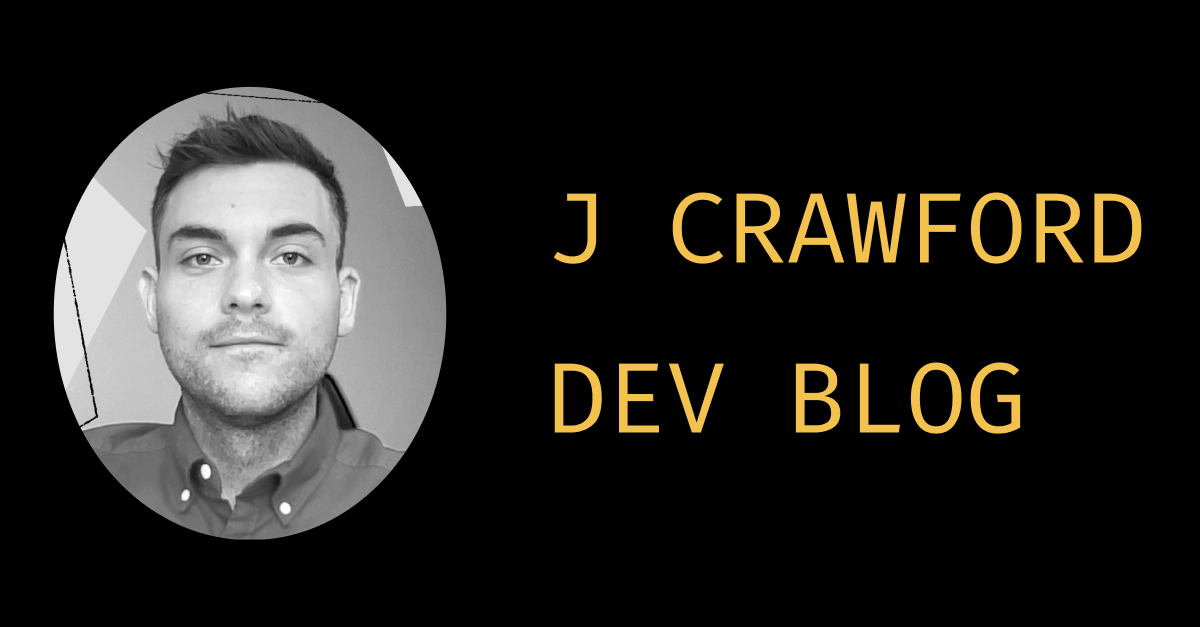
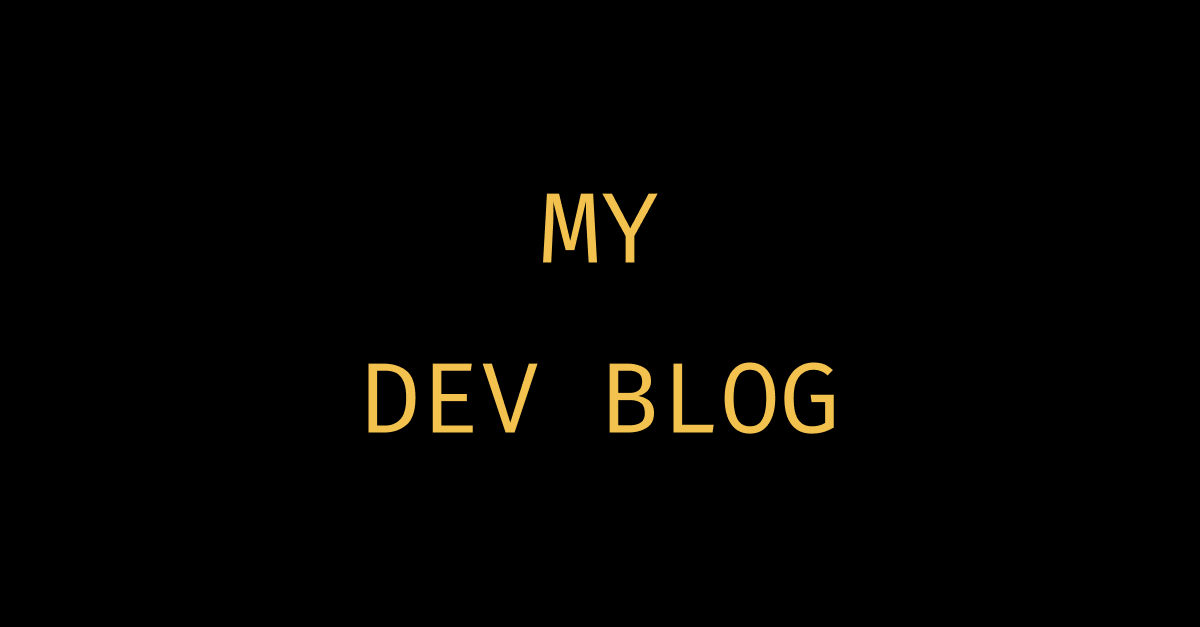
templatize repo

Changed region(s): [[0.0308, 0.1212, 0.8633, 0.8788], [0.4317, 0.303, 0.9558, 0.4242]]

diff --git a/index.html b/index.html
@@ -6,36 +6,40 @@
     <meta name="viewport" content="width=device-width, initial-scale=1" />
 
     <!-- HTML Meta Tags -->
-    <title>J CRAWFORD - BLOG</title>
+    <title>MY - BLOG</title>
     <meta name="description" content="My own dev blog for various topics." />
 
     <!-- Open Graph Meta Tags -->
-    <meta property="og:url" content="https://blog.joncrawford.me/" />
+    <!-- 
+    <meta property="og:url" content="https://<domain.name>" />
     <meta property="og:type" content="website" />
-    <meta property="og:title" content="J CRAWFORD - BLOG" />
+    <meta property="og:title" content="MY - BLOG" />
     <meta
       property="og:description"
       content="My own dev blog for various topics."
     />
     <meta
       property="og:image"
-      content="https://blog.joncrawford.me/assets/static/og-preview.png"
+      content="https://<domain.name>/assets/static/og-preview.png"
     />
     <meta property="og:image:type" content="image/png" />
+    -->
 
     <!-- Twitter Meta Tags -->
+    <!--
     <meta name="twitter:card" content="summary_large_image" />
-    <meta property="twitter:domain" content="blog.joncrawford.me" />
-    <meta property="twitter:url" content="https://blog.joncrawford.me/" />
-    <meta name="twitter:title" content="J CRAWFORD - BLOG" />
+    <meta property="twitter:domain" content="<domain.name" />
+    <meta property="twitter:url" content="https://<domain.name>" />
+    <meta name="twitter:title" content="MY - BLOG" />
     <meta
       name="twitter:description"
       content="My own dev blog for various topics."
     />
     <meta
       name="twitter:image"
-      content="https://blog.joncrawford.me/assets/static/og-preview.png"
+      content="<domain.name>/assets/static/og-preview.png"
     />
+    -->
   </head>
   <body>
     <div id="root"></div>

diff --git a/src/components/Footer/Footer.tsx b/src/components/Footer/Footer.tsx
@@ -8,19 +8,25 @@ import {
   faLinkedinIn,
 } from "@fortawesome/free-brands-svg-icons";
 
+// replace with your own social media profile urls
+const mediumURL = "https://medium.com/";
+const githubURL = "https://github.com/";
+const twitterURL = "https://twitter.com/";
+const linkedinURL = "https://www.linkedin.com/in/";
+
 export const Footer = () => {
   return (
     <div className={css["footer"]}>
-      <a href="https://medium.com/@jonathantcrawford" target="_blank">
+      <a href={mediumURL} target="_blank">
         <FontAwesomeIcon icon={faMediumM} />
       </a>
-      <a href="https://github.com/jonathantcrawford" target="_blank">
+      <a href={githubURL} target="_blank">
         <FontAwesomeIcon icon={faGithub} />
       </a>
-      <a href="https://twitter.com/jon_t_craw" target="_blank">
+      <a href={twitterURL} target="_blank">
         <FontAwesomeIcon icon={faTwitter} />
       </a>
-      <a href="https://www.linkedin.com/in/jonathantcrawford/" target="_blank">
+      <a href={linkedinURL} target="_blank">
         <FontAwesomeIcon icon={faLinkedinIn} />
       </a>
     </div>

diff --git a/src/components/Header/Header.tsx b/src/components/Header/Header.tsx
@@ -2,12 +2,16 @@ import { NavLink } from "react-router-dom";
 
 import css from "./Header.module.scss";
 
+// replace with your own name
+const firstName = 'first';
+const lastName = 'last';
+
 export const Header = () => {
   return (
     <div className={css["header"]}>
       <NavLink to="/" className={css["title"]}>
-        <span className={css["title__first-name"]}>J</span>
-        <span className={css["title__last-name"]}>Crawford</span>
+        <span className={css["title__first-name"]}>{firstName}</span>
+        <span className={css["title__last-name"]}>{lastName}</span>
       </NavLink>
     </div>
   );

diff --git a/src/components/CodeSnippet/CodeSnippet.tsx b/src/components/CodeSnippet/CodeSnippet.tsx
@@ -3,10 +3,10 @@ import syntaxHighlighterTheme from "react-syntax-highlighter/dist/esm/styles/hlj
 
 import css from "./CodeSnippet.module.scss";
 
-export const CodeSnippet = ({ string }: any) => {
+export const CodeSnippet = ({ string, fileName }: any) => {
   return (
     <section className={css["code-snippet"]}>
-      <code className={css["file-name"]}>.fleek.json</code>
+      <code className={css["file-name"]}>{fileName}</code>
       <SyntaxHighlighter language="json" style={syntaxHighlighterTheme}>
         {string}
       </SyntaxHighlighter>

diff --git a/src/components/About/About.tsx b/src/components/About/About.tsx
@@ -4,10 +4,10 @@ export const About = () => {
   return (
     <div className={css["about"]}>
       <div>
-        I work at Lunchbox Inc. as a Software Engineer on the Innovation Team.
+        Enter a brief description about yourself.
       </div>
-      <div>I am interested in design systems, web3 and user experiences.</div>
-      <div>I am currently living in Austin, TX.</div>
+      <div>Include some of your interests and passions.</div>
+      <div>Maybe add something funny or charming.</div>
     </div>
   );
 };

diff --git a/README.md b/README.md
@@ -1,0 +1,28 @@
+# IPFS Blog Starter
+
+- Vite
+- MDX
+- Fleek
+- SCSS
+- Font Awesome Icons
+- Custom Fonts
+- Meta Tags
+- Animated Routing
+- Asset Directories
+## Setup
+- Clone this repo
+- install dependencies `yarn`
+- run `yarn dev`
+- Follow the steps in TODO.md
+
+## Assets
+There are two locations for assets.
+1. `public/assets/static`
+Place assets here when you need the asset url to be static.
+2. `src/assets/`
+Place assets here that are referenced in code. Vite generates new file names for each asset during every rebuild.
+When referencing these assets make sure to import them in the following way.
+`import Screenshot_1URL from "@/assets/images/how-to-host-a-site-on-ipfs/screenshot_1.png";`
+Vite will compile your code with the correct dynamically generated filename.
+For non-image file extensions import them with a `?url` at the end.
+`import GLTFURL from "@/assets/gltf/3d_model.gltf?url";`

diff --git a/TODO.md b/TODO.md
@@ -1,1 +1,6 @@
--- Implement Ceramic Network https://github.com/ceramicstudio/ceramic-starter
+1. Update src/components/Header/Header.tsx
+2. Update src/components/Footer/Footer.tsx
+3. Update src/components/About/About.tsx
+4. Replace public/assets/static/favicon.png with your own favicon icon
+5. Replace public/assets/static/og-preview.png with your own meta tag preview image
+4. Update index.html meta tags
